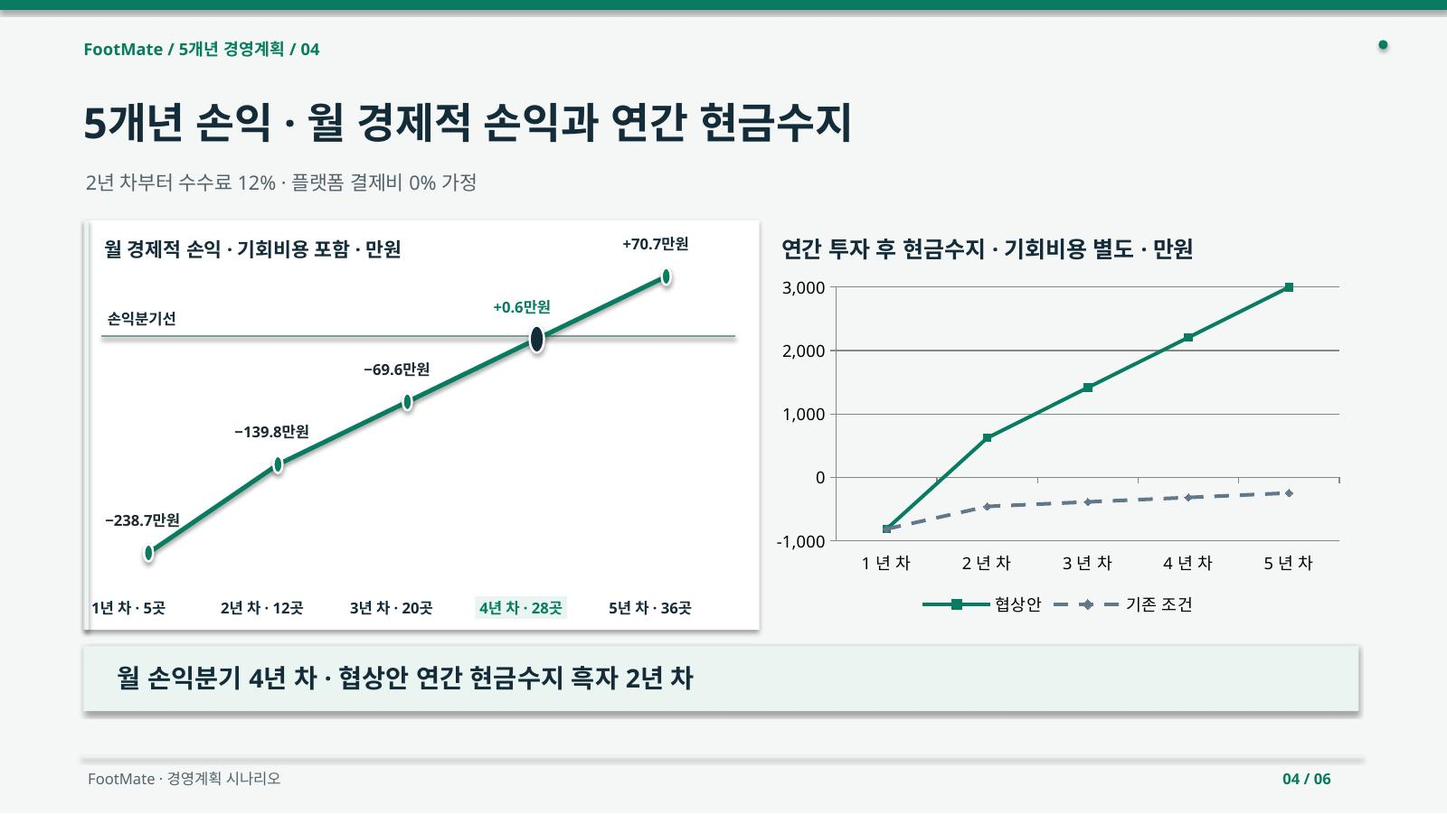
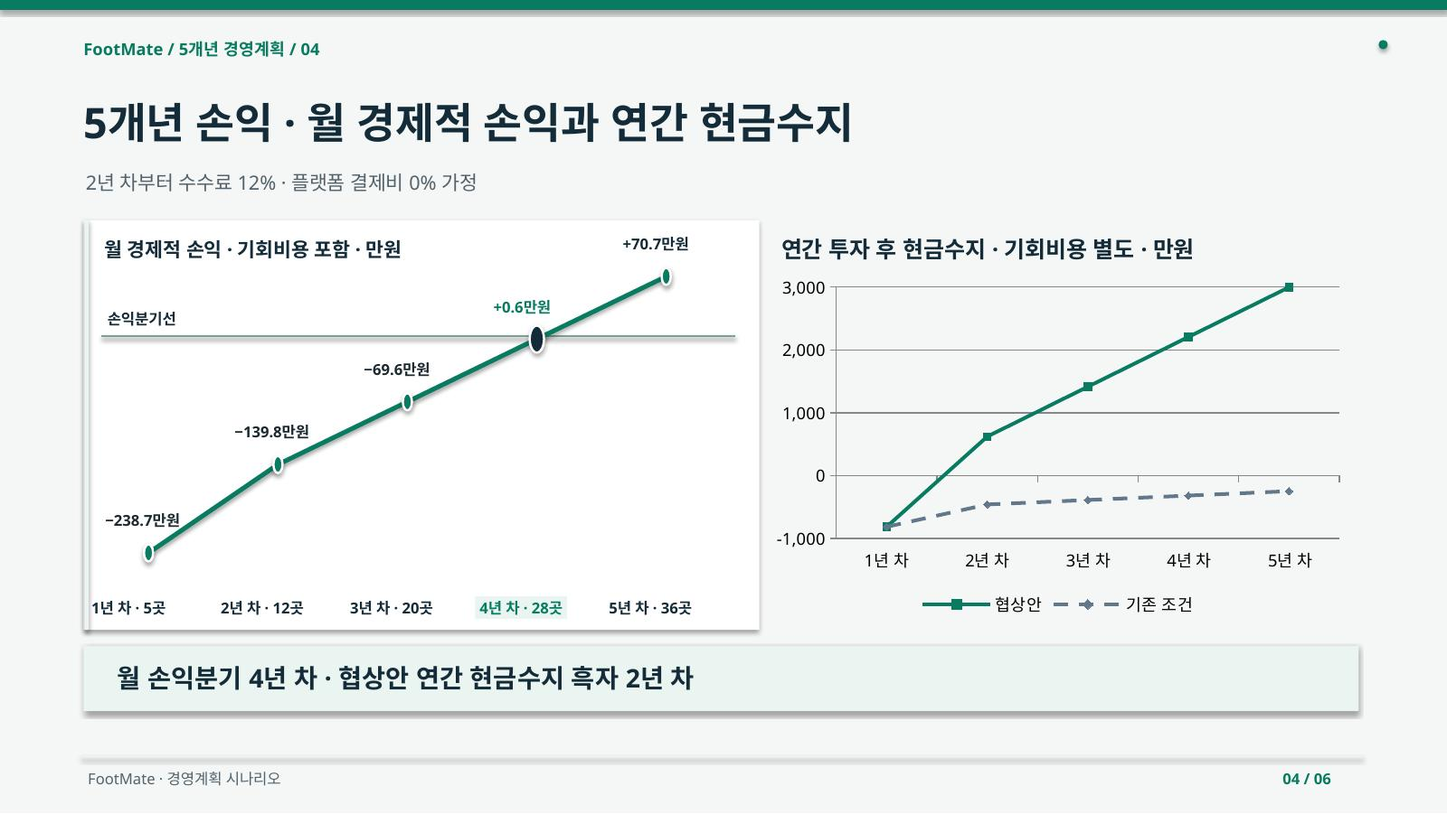
Fix Korean year labels in both presentation charts

Changed region(s): [[0.5312, 0.4661, 0.9062, 0.7148], [0.7188, 0.5905, 0.9062, 0.6215], [0.8125, 0.404, 0.8438, 0.4351]]

diff --git a/src/case-study/materials.html b/src/case-study/materials.html
@@ -263,7 +263,7 @@ html.standalone-slides .viewer:not(:fullscreen):not(.inline-zoom)>.toolbar,
 html.standalone-slides .viewer:not(:fullscreen):not(.inline-zoom)>.slide-tools,
 html
 html.standalone-slides .viewer:not(:fullscreen):not(.inline-zoom)>.slide-progress{flex:none}
-</style><style>.viewer .slide-keypoint{font-size:clamp(.82rem,1.3vw,.95rem);line-height:1.45;word-break:keep-all;overflow-wrap:anywhere}.viewer:fullscreen .slide-keypoint{flex:none}</style></head><body><main><a class="back" href="/" target="_top">본문으로</a><h1>FootMate 사업성 분석·경영계획 자료</h1><div class="flow"><article><strong>운영 구조</strong><p>정원·참가·취소·정산의 책임과 상태를 정의합니다.</p></article><article><strong>수익성 개선</strong><p>수수료·결제비 협상과 공급 확대의 조건을 비교합니다.</p></article><article><strong>IT 투자</strong><p>핵심 거래 통제와 비용·성과 관리에 투자 우선순위를 둡니다.</p></article></div><h2>분석 보고서</h2><p class="caption"><a href="/src/case-study/downloads/footmate_5year_strategy.pptx?v=20261113-reader" download="footmate_5year_strategy.pptx">5개년 중장기 전략 PPTX 6장 받기</a></p><div class="viewer"><div class="toolbar" role="group" aria-label="슬라이드 조작"><div class="slide-nav-controls"><button id="prev" type="button" aria-label="이전 슬라이드"><span class="fm-icon" aria-hidden="true">⬅</span><span>이전</span></button><span id="page" aria-live="polite" aria-atomic="true">01 / 09</span><button id="next" type="button" aria-label="다음 슬라이드"><span>다음</span><span class="fm-icon" aria-hidden="true">➡</span></button></div><div class="slide-current-info"><strong id="slideTitle">플랫폼 운영과 수익성 개선</strong><span id="slideSummary">운영 구조와 수익성 개선 판단을 살펴봅니다.</span></div><div class="slide-tools"><button id="expand" type="button" aria-label="슬라이드 크게 보기"><span id="expandIcon" class="fm-icon" aria-hidden="true">🖥</span><span id="expandLabel">전체 화면</span></button></div></div><div class="slide-progress" id="slideProgressTrack" role="progressbar" aria-label="슬라이드 진행" aria-valuemin="1" aria-valuemax="10" aria-valuenow="1"><span id="slideProgress"></span></div><div class="slide-tools"><label for="slide-picker">슬라이드 목록 <select id="slide-picker"></select></label></div><div class="viewer-stage"><button type="button" id="slide-enlarge" aria-label="슬라이드 이미지 확대"><img id="slide" alt="" aria-describedby="slideSummary slide-keypoint"></button></div><div class="slide-gallery" id="slideGallery" aria-label="발표자료 슬라이드 썸네일 미리보기"></div></div><h2>손익·사업성 분석</h2><section class="analysis" aria-label="손익과 사업성 분석"><h3>운영 손익과 성과관리</h3><p class="caption">2027년 손익 시나리오(산정 기준)</p><div class="controls"><label>대상 서비스<select id="project"><option>FootMate</option></select></label><label>수수료율 %<input id="rate" type="number" min="0" max="100" step="1"></label><label>플랫폼 예약 비중 %<input id="share" type="number" min="0" max="100"></label><label>취소율 %<input id="cancel" type="number" min="0" max="100"></label><label>신규 고객 1인당 확보비(CAC) 원<input id="cac" type="number" min="0" step="100"></label><label>플랫폼 결제비 %<input id="pg" type="number" min="0" max="100"></label><button id="reset">기준 시나리오 복원</button></div><div id="kpis" class="kpis" aria-live="polite"></div><p id="formula"></p><h2>월별 계획과 가상 실적</h2><p class="muted">월별 표는 고정 계획과 가상 거래를 비교합니다. 계산기 입력값과는 연동되지 않습니다.</p><svg id="chart" viewBox="0 0 1000 220" role="img" aria-label="월별 수수료 매출, 계획과 가상 실적 비교"></svg><div id="monthly"></div><h2>차이 원인과 대응</h2><div id="variance"></div><h2>데이터·계산 검증</h2><p>2027년 가상 예약·월별 집계입니다. 환불을 반영해 수수료 매출을 산정하고, 취소·노쇼의 지원·확보·IT 비용을 고려합니다. 거래 원장은 실제 자료 확보 후 대조합니다.</p><h3>스트레스 시나리오 계산 결과</h3><p>완료 예약 기준 손익입니다. 취소·노쇼의 추가 비용은 월별 원장 대조로 확인합니다.</p><div class="table-wrap" tabindex="0" role="region" aria-label="분석 표 가로 스크롤"><table><thead><tr><th>사례</th><th>조건</th><th>완료/월</th><th>공헌이익/건</th><th>기회비용 포함 손익/월</th><th>손익분기 건수</th></tr></thead><tbody><tr><td>FootMate</td><td>기준</td><td>626</td><td>340</td><td>-2,387,160</td><td>7,648</td></tr><tr><td>FootMate</td><td>경유 비중 20% 감소</td><td>501</td><td>340</td><td>-2,429,660</td><td>7,648</td></tr><tr><td>FootMate</td><td>고객 확보비 2배</td><td>626</td><td>40</td><td>-2,574,960</td><td>65,000</td></tr><tr><td>FootMate</td><td>취소율 20%</td><td>544</td><td>340</td><td>-2,415,040</td><td>7,648</td></tr><tr><td>FootMate</td><td>수수료 0%</td><td>626</td><td>-860</td><td>-3,138,360</td><td>손익분기 미성립</td></tr></tbody></table></div><p>수수료 0%는 건당 공헌이익이 음수로 손익분기에 도달하지 않습니다. 수요 수치는 검증용 가상 데이터입니다.</p><h2>전략과제·3개년 자원 배분</h2><div class="table-wrap" tabindex="0" role="region" aria-label="분석 표 가로 스크롤"><table><thead><tr><th>시기</th><th>우선 과제</th><th>자원 배분·예산</th><th>진입·중단 기준</th></tr></thead><tbody><tr><td>1년차</td><td>권한·정원·거래·대조 통제</td><td>초기 투자 300만원. 월 고정비·기회비용 별도</td><td>건당 공헌이익이 양수일 때 고객 유입비 확대 검토</td></tr><tr><td>2년차</td><td>지역·공급 확대 및 비용 개선</td><td>반복 사용량과 계약 단가로 예산 재산정</td><td>양의 공헌이익·현금 여력·서비스 품질 확인 후 확대</td></tr><tr><td>3년차</td><td>결제 자동화·제휴 확장</td><td>증분 편익과 36개월 고정자원비를 심사</td><td>부가 기능은 기존 과업 대비 비용·효과 확인</td></tr></tbody></table></div><p>초기 구축비와 36개월 고정 운영비는 현금 2,460만원, 기회비용 포함 9,660만원입니다. 거래 변동비·추가 투자·세금·물가·할인율은 별도입니다.</p></section><h2>핵심 지표 요약</h2><div class="scroll"><table><thead><tr><th scope="col">관리 항목</th><th scope="col">산정 기준·결과</th></tr></thead><tbody><tr><th scope="row">월 공급 정원</th><td>1,558.8석</td></tr><tr><th scope="row">플랫폼 경유 완료 예약</th><td>626건</td></tr><tr><th scope="row">건당 공헌이익</th><td>340원</td></tr><tr><th scope="row">기회비용 포함 월 손익</th><td>−2,387,160원</td></tr><tr><th scope="row">복합 협상안 공헌이익</th><td>940원/건</td></tr><tr><th scope="row">관리 체계</th><td>월간 계획·가상 실적·차이 분석</td></tr></tbody></table></div><h2>의사결정 메모</h2><div class="memo"><h3>수수료·결제비 협상 후 공급 확대 검토</h3><p>2027년 손익 계산 모델(산정 기준) · 2026-10-30</p><h2>결정할 사항</h2><p>초기 운영은 운영자 제휴형으로 추진합니다. 수수료 12%·결제비 운영자 부담을 함께 협상합니다.</p><h2>근거</h2><p>기준: 월 626건·건당 340원·월 손익 −2,387,160원(기회비용 포함). 복합안: 건당 940원·손익분기 2,766건. 공급처는 관리비 제외 약 23곳, 초과분에 곳당 월 3만원 반영 시 약 28곳.</p><h2>대안과 선택 이유</h2><p>수수료 인상은 공급 이탈, 결제비 이전은 운영자 수용성이 변수입니다. 복합안은 공급 유지 확인 후 확정합니다.</p><h2>자원 배분과 중단 기준</h2><p>초기 투자 300만원·월 고정비 60만원. 기회비용 월 200만원(현금 지출 제외). 건당 공헌이익 0 이하이면 광고 보류. 확대 전 취소·지원비 포함 손익 재심사.</p><h2>담당 역할·완료 기준</h2><p>사업개발: 계약·결제비 / 운영: 일정·정원·취소 / 경영기획: 물량·단가·비용 / IT: 권한·정원·거래 검수. 확대 전 계약·손익·통제 확인.</p></div></main><script>const DATA={"notice": "2027년 손익 계산 모델(산정 기준)", "configs": {"FootMate": {"price": 12000, "rate": 0.1, "pg": 0.03, "cs": 150, "it": 50, "newshare": 0.5, "cac": 600, "fixed": 600000, "labor": 2000000, "partners": 5, "slots": 4, "capacity": 18, "fill": 0.75, "share": 0.6, "cancel": 0.08, "complete": 0.97, "initial": 3000000}}, "results": {"FootMate": {"seats": 1558.8, "orders": 626, "gmv": 7512000, "revenue": 751200, "unit": 340, "profit": -387160, "economic": -2387160, "bep": 7648}}, "monthly": [{"project": "FootMate", "month": "2027-01", "plan_orders": 626, "sim_orders": 537, "plan_revenue": 751200, "sim_revenue": 644300, "plan_profit": -387160, "sim_profit": -510490, "partners": 5, "fill": 0.75, "share": 0.6, "forecast_orders": 537, "source": "synthetic"}, {"project": "FootMate", "month": "2027-02", "plan_orders": 650, "sim_orders": 573, "plan_revenue": 780000, "sim_revenue": 685800, "plan_profit": -379000, "sim_profit": -505240, "partners": 5, "fill": 0.76, "share": 0.615, "forecast_orders": 573, "source": "synthetic"}, {"project": "FootMate", "month": "2027-03", "plan_orders": 675, "sim_orders": 611, "plan_revenue": 810000, "sim_revenue": 731300, "plan_profit": -370500, "sim_profit": -503390, "partners": 5, "fill": 0.77, "share": 0.63, "forecast_orders": 611, "source": "synthetic"}, {"project": "FootMate", "month": "2027-04", "plan_orders": 980, "sim_orders": 904, "plan_revenue": 1176000, "sim_revenue": 1088800, "plan_profit": -266800, "sim_profit": -459140, "partners": 7, "fill": 0.78, "share": 0.645, "forecast_orders": 904, "source": "synthetic"}, {"project": "FootMate", "month": "2027-05", "plan_orders": 1015, "sim_orders": 976, "plan_revenue": 1218000, "sim_revenue": 1172000, "plan_profit": -254900, "sim_profit": -461600, "partners": 7, "fill": 0.79, "share": 0.6599999999999999, "forecast_orders": 976, "source": "synthetic"}, {"project": "FootMate", "month": "2027-06", "plan_orders": 1052, "sim_orders": 1019, "plan_revenue": 1262400, "sim_revenue": 1223200, "plan_profit": -242320, "sim_profit": -459360, "partners": 7, "fill": 0.8, "share": 0.6749999999999999, "forecast_orders": 1019, "source": "synthetic"}, {"project": "FootMate", "month": "2027-07", "plan_orders": 1399, "sim_orders": 1424, "plan_revenue": 1678800, "sim_revenue": 1712100, "plan_profit": -124340, "sim_profit": -355330, "partners": 9, "fill": 0.81, "share": 0.69, "forecast_orders": 1399, "source": "synthetic"}, {"project": "FootMate", "month": "2027-08", "plan_orders": 1448, "sim_orders": 1498, "plan_revenue": 1737600, "sim_revenue": 1797700, "plan_profit": -107680, "sim_profit": -359110, "partners": 9, "fill": 0.8200000000000001, "share": 0.705, "forecast_orders": 1448, "source": "synthetic"}, {"project": "FootMate", "month": "2027-09", "plan_orders": 1496, "sim_orders": 1564, "plan_revenue": 1795200, "sim_revenue": 1877900, "plan_profit": -91360, "sim_profit": -367870, "partners": 9, "fill": 0.83, "share": 0.72, "forecast_orders": 1496, "source": "synthetic"}, {"project": "FootMate", "month": "2027-10", "plan_orders": 1889, "sim_orders": 2056, "plan_revenue": 2266800, "sim_revenue": 2466000, "plan_profit": 42260, "sim_profit": -274700, "partners": 11, "fill": 0.84, "share": 0.735, "forecast_orders": 1889, "source": "synthetic"}, {"project": "FootMate", "month": "2027-11", "plan_orders": 1951, "sim_orders": 2143, "plan_revenue": 2341200, "sim_revenue": 2568200, "plan_profit": 63340, "sim_profit": -306460, "partners": 11, "fill": 0.85, "share": 0.75, "forecast_orders": 1951, "source": "synthetic"}, {"project": "FootMate", "month": "2027-12", "plan_orders": 2013, "sim_orders": 2261, "plan_revenue": 2415600, "sim_revenue": 2713800, "plan_profit": 84420, "sim_profit": -278040, "partners": 11, "fill": 0.86, "share": 0.7649999999999999, "forecast_orders": 2013, "source": "synthetic"}]};
+</style><style>.viewer .slide-keypoint{font-size:clamp(.82rem,1.3vw,.95rem);line-height:1.45;word-break:keep-all;overflow-wrap:anywhere}.viewer:fullscreen .slide-keypoint{flex:none}</style></head><body><main><a class="back" href="/" target="_top">본문으로</a><h1>FootMate 사업성 분석·경영계획 자료</h1><div class="flow"><article><strong>운영 구조</strong><p>정원·참가·취소·정산의 책임과 상태를 정의합니다.</p></article><article><strong>수익성 개선</strong><p>수수료·결제비 협상과 공급 확대의 조건을 비교합니다.</p></article><article><strong>IT 투자</strong><p>핵심 거래 통제와 비용·성과 관리에 투자 우선순위를 둡니다.</p></article></div><h2>분석 보고서</h2><p class="caption"><a href="/src/case-study/downloads/footmate_5year_strategy.pptx?v=20261113-axis" download="footmate_5year_strategy.pptx">5개년 중장기 전략 PPTX 6장 받기</a></p><div class="viewer"><div class="toolbar" role="group" aria-label="슬라이드 조작"><div class="slide-nav-controls"><button id="prev" type="button" aria-label="이전 슬라이드"><span class="fm-icon" aria-hidden="true">⬅</span><span>이전</span></button><span id="page" aria-live="polite" aria-atomic="true">01 / 09</span><button id="next" type="button" aria-label="다음 슬라이드"><span>다음</span><span class="fm-icon" aria-hidden="true">➡</span></button></div><div class="slide-current-info"><strong id="slideTitle">플랫폼 운영과 수익성 개선</strong><span id="slideSummary">운영 구조와 수익성 개선 판단을 살펴봅니다.</span></div><div class="slide-tools"><button id="expand" type="button" aria-label="슬라이드 크게 보기"><span id="expandIcon" class="fm-icon" aria-hidden="true">🖥</span><span id="expandLabel">전체 화면</span></button></div></div><div class="slide-progress" id="slideProgressTrack" role="progressbar" aria-label="슬라이드 진행" aria-valuemin="1" aria-valuemax="10" aria-valuenow="1"><span id="slideProgress"></span></div><div class="slide-tools"><label for="slide-picker">슬라이드 목록 <select id="slide-picker"></select></label></div><div class="viewer-stage"><button type="button" id="slide-enlarge" aria-label="슬라이드 이미지 확대"><img id="slide" alt="" aria-describedby="slideSummary slide-keypoint"></button></div><div class="slide-gallery" id="slideGallery" aria-label="발표자료 슬라이드 썸네일 미리보기"></div></div><h2>손익·사업성 분석</h2><section class="analysis" aria-label="손익과 사업성 분석"><h3>운영 손익과 성과관리</h3><p class="caption">2027년 손익 시나리오(산정 기준)</p><div class="controls"><label>대상 서비스<select id="project"><option>FootMate</option></select></label><label>수수료율 %<input id="rate" type="number" min="0" max="100" step="1"></label><label>플랫폼 예약 비중 %<input id="share" type="number" min="0" max="100"></label><label>취소율 %<input id="cancel" type="number" min="0" max="100"></label><label>신규 고객 1인당 확보비(CAC) 원<input id="cac" type="number" min="0" step="100"></label><label>플랫폼 결제비 %<input id="pg" type="number" min="0" max="100"></label><button id="reset">기준 시나리오 복원</button></div><div id="kpis" class="kpis" aria-live="polite"></div><p id="formula"></p><h2>월별 계획과 가상 실적</h2><p class="muted">월별 표는 고정 계획과 가상 거래를 비교합니다. 계산기 입력값과는 연동되지 않습니다.</p><svg id="chart" viewBox="0 0 1000 220" role="img" aria-label="월별 수수료 매출, 계획과 가상 실적 비교"></svg><div id="monthly"></div><h2>차이 원인과 대응</h2><div id="variance"></div><h2>데이터·계산 검증</h2><p>2027년 가상 예약·월별 집계입니다. 환불을 반영해 수수료 매출을 산정하고, 취소·노쇼의 지원·확보·IT 비용을 고려합니다. 거래 원장은 실제 자료 확보 후 대조합니다.</p><h3>스트레스 시나리오 계산 결과</h3><p>완료 예약 기준 손익입니다. 취소·노쇼의 추가 비용은 월별 원장 대조로 확인합니다.</p><div class="table-wrap" tabindex="0" role="region" aria-label="분석 표 가로 스크롤"><table><thead><tr><th>사례</th><th>조건</th><th>완료/월</th><th>공헌이익/건</th><th>기회비용 포함 손익/월</th><th>손익분기 건수</th></tr></thead><tbody><tr><td>FootMate</td><td>기준</td><td>626</td><td>340</td><td>-2,387,160</td><td>7,648</td></tr><tr><td>FootMate</td><td>경유 비중 20% 감소</td><td>501</td><td>340</td><td>-2,429,660</td><td>7,648</td></tr><tr><td>FootMate</td><td>고객 확보비 2배</td><td>626</td><td>40</td><td>-2,574,960</td><td>65,000</td></tr><tr><td>FootMate</td><td>취소율 20%</td><td>544</td><td>340</td><td>-2,415,040</td><td>7,648</td></tr><tr><td>FootMate</td><td>수수료 0%</td><td>626</td><td>-860</td><td>-3,138,360</td><td>손익분기 미성립</td></tr></tbody></table></div><p>수수료 0%는 건당 공헌이익이 음수로 손익분기에 도달하지 않습니다. 수요 수치는 검증용 가상 데이터입니다.</p><h2>전략과제·3개년 자원 배분</h2><div class="table-wrap" tabindex="0" role="region" aria-label="분석 표 가로 스크롤"><table><thead><tr><th>시기</th><th>우선 과제</th><th>자원 배분·예산</th><th>진입·중단 기준</th></tr></thead><tbody><tr><td>1년차</td><td>권한·정원·거래·대조 통제</td><td>초기 투자 300만원. 월 고정비·기회비용 별도</td><td>건당 공헌이익이 양수일 때 고객 유입비 확대 검토</td></tr><tr><td>2년차</td><td>지역·공급 확대 및 비용 개선</td><td>반복 사용량과 계약 단가로 예산 재산정</td><td>양의 공헌이익·현금 여력·서비스 품질 확인 후 확대</td></tr><tr><td>3년차</td><td>결제 자동화·제휴 확장</td><td>증분 편익과 36개월 고정자원비를 심사</td><td>부가 기능은 기존 과업 대비 비용·효과 확인</td></tr></tbody></table></div><p>초기 구축비와 36개월 고정 운영비는 현금 2,460만원, 기회비용 포함 9,660만원입니다. 거래 변동비·추가 투자·세금·물가·할인율은 별도입니다.</p></section><h2>핵심 지표 요약</h2><div class="scroll"><table><thead><tr><th scope="col">관리 항목</th><th scope="col">산정 기준·결과</th></tr></thead><tbody><tr><th scope="row">월 공급 정원</th><td>1,558.8석</td></tr><tr><th scope="row">플랫폼 경유 완료 예약</th><td>626건</td></tr><tr><th scope="row">건당 공헌이익</th><td>340원</td></tr><tr><th scope="row">기회비용 포함 월 손익</th><td>−2,387,160원</td></tr><tr><th scope="row">복합 협상안 공헌이익</th><td>940원/건</td></tr><tr><th scope="row">관리 체계</th><td>월간 계획·가상 실적·차이 분석</td></tr></tbody></table></div><h2>의사결정 메모</h2><div class="memo"><h3>수수료·결제비 협상 후 공급 확대 검토</h3><p>2027년 손익 계산 모델(산정 기준) · 2026-10-30</p><h2>결정할 사항</h2><p>초기 운영은 운영자 제휴형으로 추진합니다. 수수료 12%·결제비 운영자 부담을 함께 협상합니다.</p><h2>근거</h2><p>기준: 월 626건·건당 340원·월 손익 −2,387,160원(기회비용 포함). 복합안: 건당 940원·손익분기 2,766건. 공급처는 관리비 제외 약 23곳, 초과분에 곳당 월 3만원 반영 시 약 28곳.</p><h2>대안과 선택 이유</h2><p>수수료 인상은 공급 이탈, 결제비 이전은 운영자 수용성이 변수입니다. 복합안은 공급 유지 확인 후 확정합니다.</p><h2>자원 배분과 중단 기준</h2><p>초기 투자 300만원·월 고정비 60만원. 기회비용 월 200만원(현금 지출 제외). 건당 공헌이익 0 이하이면 광고 보류. 확대 전 취소·지원비 포함 손익 재심사.</p><h2>담당 역할·완료 기준</h2><p>사업개발: 계약·결제비 / 운영: 일정·정원·취소 / 경영기획: 물량·단가·비용 / IT: 권한·정원·거래 검수. 확대 전 계약·손익·통제 확인.</p></div></main><script>const DATA={"notice": "2027년 손익 계산 모델(산정 기준)", "configs": {"FootMate": {"price": 12000, "rate": 0.1, "pg": 0.03, "cs": 150, "it": 50, "newshare": 0.5, "cac": 600, "fixed": 600000, "labor": 2000000, "partners": 5, "slots": 4, "capacity": 18, "fill": 0.75, "share": 0.6, "cancel": 0.08, "complete": 0.97, "initial": 3000000}}, "results": {"FootMate": {"seats": 1558.8, "orders": 626, "gmv": 7512000, "revenue": 751200, "unit": 340, "profit": -387160, "economic": -2387160, "bep": 7648}}, "monthly": [{"project": "FootMate", "month": "2027-01", "plan_orders": 626, "sim_orders": 537, "plan_revenue": 751200, "sim_revenue": 644300, "plan_profit": -387160, "sim_profit": -510490, "partners": 5, "fill": 0.75, "share": 0.6, "forecast_orders": 537, "source": "synthetic"}, {"project": "FootMate", "month": "2027-02", "plan_orders": 650, "sim_orders": 573, "plan_revenue": 780000, "sim_revenue": 685800, "plan_profit": -379000, "sim_profit": -505240, "partners": 5, "fill": 0.76, "share": 0.615, "forecast_orders": 573, "source": "synthetic"}, {"project": "FootMate", "month": "2027-03", "plan_orders": 675, "sim_orders": 611, "plan_revenue": 810000, "sim_revenue": 731300, "plan_profit": -370500, "sim_profit": -503390, "partners": 5, "fill": 0.77, "share": 0.63, "forecast_orders": 611, "source": "synthetic"}, {"project": "FootMate", "month": "2027-04", "plan_orders": 980, "sim_orders": 904, "plan_revenue": 1176000, "sim_revenue": 1088800, "plan_profit": -266800, "sim_profit": -459140, "partners": 7, "fill": 0.78, "share": 0.645, "forecast_orders": 904, "source": "synthetic"}, {"project": "FootMate", "month": "2027-05", "plan_orders": 1015, "sim_orders": 976, "plan_revenue": 1218000, "sim_revenue": 1172000, "plan_profit": -254900, "sim_profit": -461600, "partners": 7, "fill": 0.79, "share": 0.6599999999999999, "forecast_orders": 976, "source": "synthetic"}, {"project": "FootMate", "month": "2027-06", "plan_orders": 1052, "sim_orders": 1019, "plan_revenue": 1262400, "sim_revenue": 1223200, "plan_profit": -242320, "sim_profit": -459360, "partners": 7, "fill": 0.8, "share": 0.6749999999999999, "forecast_orders": 1019, "source": "synthetic"}, {"project": "FootMate", "month": "2027-07", "plan_orders": 1399, "sim_orders": 1424, "plan_revenue": 1678800, "sim_revenue": 1712100, "plan_profit": -124340, "sim_profit": -355330, "partners": 9, "fill": 0.81, "share": 0.69, "forecast_orders": 1399, "source": "synthetic"}, {"project": "FootMate", "month": "2027-08", "plan_orders": 1448, "sim_orders": 1498, "plan_revenue": 1737600, "sim_revenue": 1797700, "plan_profit": -107680, "sim_profit": -359110, "partners": 9, "fill": 0.8200000000000001, "share": 0.705, "forecast_orders": 1448, "source": "synthetic"}, {"project": "FootMate", "month": "2027-09", "plan_orders": 1496, "sim_orders": 1564, "plan_revenue": 1795200, "sim_revenue": 1877900, "plan_profit": -91360, "sim_profit": -367870, "partners": 9, "fill": 0.83, "share": 0.72, "forecast_orders": 1496, "source": "synthetic"}, {"project": "FootMate", "month": "2027-10", "plan_orders": 1889, "sim_orders": 2056, "plan_revenue": 2266800, "sim_revenue": 2466000, "plan_profit": 42260, "sim_profit": -274700, "partners": 11, "fill": 0.84, "share": 0.735, "forecast_orders": 1889, "source": "synthetic"}, {"project": "FootMate", "month": "2027-11", "plan_orders": 1951, "sim_orders": 2143, "plan_revenue": 2341200, "sim_revenue": 2568200, "plan_profit": 63340, "sim_profit": -306460, "partners": 11, "fill": 0.85, "share": 0.75, "forecast_orders": 1951, "source": "synthetic"}, {"project": "FootMate", "month": "2027-12", "plan_orders": 2013, "sim_orders": 2261, "plan_revenue": 2415600, "sim_revenue": 2713800, "plan_profit": 84420, "sim_profit": -278040, "partners": 11, "fill": 0.86, "share": 0.7649999999999999, "forecast_orders": 2013, "source": "synthetic"}]};
 const $=id=>document.getElementById(id),num=n=>Math.round(n).toLocaleString('ko-KR'),money=n=>num(n)+'원';
 function tab(h,rs){return '<div class="table-wrap" tabindex="0" role="region" aria-label="분석 표 가로 스크롤"><table><thead><tr>'+h.map(x=>'<th>'+x+'</th>').join('')+'</tr></thead><tbody>'+rs.map(r=>'<tr>'+r.map(x=>'<td>'+x+'</td>').join('')+'</tr>').join('')+'</tbody></table></div>'}
 function update(){let p=$('project').value,c={...DATA.configs[p]};for(let id of ['rate','share','cancel','cac','pg'])c[id]=Number($(id).value)/(id==='cac'?1:100);if(Object.values(c).some(x=>!Number.isFinite(x))||['rate','share','cancel','pg'].some(x=>c[x]<0||c[x]>1)||c.cac<0){$('kpis').textContent='입력 범위를 확인하세요.';return}let seats=c.partners*c.slots*4.33*c.capacity,q=Math.round(seats*c.fill*c.share*(1-c.cancel)*c.complete),u=c.price*c.rate-c.price*c.pg-c.cs-c.it-c.newshare*c.cac,e=q*u-c.fixed-c.labor;let bep=u>0?Math.ceil((c.fixed+c.labor)/u):null;$('kpis').innerHTML=[['완료 예약 / 월',num(q)+'건'],['수수료 매출',money(q*c.price*c.rate)],['공헌이익 / 건',money(u)],['기회비용 포함 월 손익',money(e)],['손익분기 예약',bep?num(bep)+'건':'손익분기 미성립']].map(x=>'<div>'+x[0]+'<strong>'+x[1]+'</strong></div>').join('');$('formula').textContent='공급: 5곳 × 주4회 × 18명 × 4.33주. 충원율·플랫폼 예약 비중·취소·완료율 적용.';
@@ -271,7 +271,7 @@ let ms=DATA.monthly.filter(x=>x.project===p);$('monthly').innerHTML=tab(['월','
 let x=ms[5],q0=x.plan_orders,q1=x.sim_orders,p0=q0?x.plan_revenue/q0:0,p1=q1?x.sim_revenue/q1:0,volume=(q1-q0)*p0,price=q1*(p1-p0),cost=(x.sim_profit-x.plan_profit)-(volume+price);$('variance').innerHTML=tab(['6월 원인','손익 영향','조치 제안'],[['완료 물량 차이',money(volume),'플랫폼 예약·취소·완료율을 구분해 점검'],['건당 수수료 수익 차이',money(price),'상품·가격·수수료 조건 확인'],['순비용 차이',money(cost),'취소 지원·고객 확보·IT 비용 점검'],['손익 차이 합계',money(x.sim_profit-x.plan_profit),'예산 검토에 반영']]);
 let max=Math.max(...ms.flatMap(x=>[x.plan_revenue,x.sim_revenue]),1),bars=ms.map((x,i)=>{let a=150*x.plan_revenue/max,b=150*x.sim_revenue/max;return `<rect x="${30+i*80}" y="${180-a}" width="23" height="${a}" fill="#173f33"/><rect x="${55+i*80}" y="${180-b}" width="23" height="${b}" fill="#8fb69a"/><text x="${30+i*80}" y="205" font-size="13">${i+1}월</text>`}).join('');$('chart').innerHTML='<text x="24" y="18" font-size="14">수수료 매출 비교 · 진한색 계획 / 연한색 가상 실적</text>'+bars;}
 function reset(){let c=DATA.configs[$('project').value];for(let id of ['rate','share','cancel','cac','pg'])$(id).value=c[id]*(id==='cac'?1:100);update()}for(let id of ['rate','share','cancel','cac','pg'])$(id).addEventListener('input',update);$('project').addEventListener('change',reset);$('reset').addEventListener('click',reset);reset();</script><script src="report-previews.js?v=20261111-priority-slides"></script><script>const strategyDeck=new URLSearchParams(location.search).get('deck')==='strategy';const slides=strategyDeck?[{"title":"중장기 경영전략 및 수익성 개선","src":"/src/case-study/previews/strategy/slide-1.jpg"},{"title":"5개년 성장 전략과 핵심 지표","src":"/src/case-study/previews/strategy/slide-2.jpg"},{"title":"사업모델 협상에 따른 수익구조 개선","src":"/src/case-study/previews/strategy/slide-3.jpg"},{"title":"손익·비용 구조를 반영한 5개년 계획","src":"/src/case-study/previews/strategy/slide-4.jpg?v=20261111-priority-slides"},{"title":"경영성과 관리와 자원 배분 체계","src":"/src/case-study/previews/strategy/slide-5.jpg"},{"title":"성장 목표보다 수익성 있는 확대를 우선","src":"/src/case-study/previews/strategy/slide-6.jpg"}]:window.REPORT_SLIDES;const slideSummaries=strategyDeck?["5개년 경영전략의 전체 흐름","제휴 공급 확대와 핵심 성과지표","수수료·결제비 협상을 통한 건당 수익 개선","5개년 손익과 비용 구조","월간 계획·실적·예산·투자 우선순위","수익성을 확인한 뒤 단계적으로 확대"]:["운영 구조와 수익성 개선 판단","운영자·플랫폼·참가자의 역할과 책임","공급처와 예약 비중을 고려한 완료 예약 추정","수수료·결제비 부담에 따른 공헌이익 개선안","계획 대비 손익 차이 원인과 운영 대응","참가·취소·정원 데이터의 관리와 검증","구축 범위·월 운영비·IT 투자 우선순위","시나리오별 ROI·비용 회수율 비교","5개년 전망·핵심 지표·단계적 투자 기준"];const revisedSlides=slides.map((_,index)=>index+1);
-revisedSlides.forEach(number=>{slides[number-1].src='/src/case-study/previews/'+(strategyDeck?'strategy':'report')+'/decision-'+number+'.jpg?v='+((strategyDeck?[4,6]:[5,8,9]).includes(number)?'20261113-reader':(strategyDeck?[]:[1,4,7]).includes(number)?'20261113-money':'20261113-spacing');});
+revisedSlides.forEach(number=>{slides[number-1].src='/src/case-study/previews/'+(strategyDeck?'strategy':'report')+'/decision-'+number+'.jpg?v='+((strategyDeck?number===4:number===9)?'20261113-axis':(strategyDeck?[4,6]:[5,8,9]).includes(number)?'20261113-reader':(strategyDeck?[]:[1,4,7]).includes(number)?'20261113-money':'20261113-spacing');});
 const keypoints=strategyDeck?[
  '공급처 5곳에서 36곳까지 확대하는 경영계획 시나리오.',
  '5·12·20·28·36곳. 계약 조건, 운영 안정성, 지역 손익을 확인한 뒤 확대.',

diff --git a/src/case-study/nine-sections.js b/src/case-study/nine-sections.js
@@ -8,7 +8,7 @@ const sections = [
     "name": "추진 배경·검토 결론",
     "title": "풋살 매칭 플랫폼의 사업성 검토 및 중장기 경영계획",
     "lead": "",
-    "body": "<div class=\"case-verdict\"><h2>운영자 제휴로 시작하고,<br>수익성 확인 후 투자한다.</h2></div><dl class=\"case-kpis\" aria-label=\"기준 시나리오 주요 수치\"><div class=\"case-kpi\"><dt>월 완료 예약</dt><dd>626<small>건</small></dd></div><div class=\"case-kpi\"><dt>예약당 공헌이익</dt><dd>340<small>원</small></dd></div><div class=\"case-kpi\"><dt>예상 월 현금 손익</dt><dd class=\"is-negative\">약 −38.7<small>만원</small></dd></div></dl><p class=\"case-scenario-note\">가정 기반 월간 시나리오 · 제휴 5곳 · 수수료 10% · 결제비 3%</p><div class=\"case-next-decision\"><strong>8주 현장 검증</strong><span>기본 현금 예산 461만원</span></div><section id=\"attachments\" class=\"case-documents\" aria-labelledby=\"case-documents-heading\"><div class=\"case-documents-head\"><div class=\"case-documents-intro\"><h2 id=\"case-documents-heading\">발표자료</h2></div></div><div class=\"case-deck-stack\"><div class=\"case-deck-card\"><details class=\"case-doc-preview case-report-preview\"><summary><span class=\"case-preview-summary-main\"><span class=\"case-preview-symbol\" aria-hidden=\"true\">01</span><span class=\"case-preview-summary-text\"><strong>사업성 분석·경영계획</strong><span class=\"case-preview-description\">사업성 검토 · 손익분기 · 투자 판단</span></span></span><span class=\"case-preview-summary-side\"><span class=\"case-preview-count\">9장</span><span class=\"case-preview-action\">살펴보기</span><span class=\"case-preview-indicator\" aria-hidden=\"true\"></span></span></summary><div class=\"case-doc-preview-body\"><iframe class=\"case-ppt-frame\" title=\"사업성 분석·경영계획 슬라이드 9장\" allowfullscreen data-src=\"/src/case-study/materials.html?preview=1&viewer=20261112-qa\" loading=\"lazy\"></iframe></div></details><div class=\"case-downloads\" aria-label=\"사업성 분석·경영계획 발표자료\"><a href=\"/src/case-study/materials.html?preview=1&mode=slides&v=20261112-qa\" target=\"_blank\" rel=\"noopener\" aria-label=\"사업성 분석·경영계획 발표 보기\">발표 보기</a><a href=\"/src/case-study/downloads/footmate_report.pptx?v=20261113-reader\" download=\"footmate_report.pptx?v=20261113-reader\">기획 자료 받기</a></div></div><div class=\"case-deck-card\"><details class=\"case-doc-preview case-strategy-preview\"><summary><span class=\"case-preview-summary-main\"><span class=\"case-preview-symbol\" aria-hidden=\"true\">02</span><span class=\"case-preview-summary-text\"><strong>중장기 성장 전략</strong><span class=\"case-preview-description\">공급 확대 · 5개년 손익 · 성과관리</span></span></span><span class=\"case-preview-summary-side\"><span class=\"case-preview-count\">6장</span><span class=\"case-preview-action\">살펴보기</span><span class=\"case-preview-indicator\" aria-hidden=\"true\"></span></span></summary><div class=\"case-doc-preview-body\"><iframe class=\"case-ppt-frame\" title=\"중장기 성장 전략 슬라이드 6장\" allowfullscreen data-src=\"/src/case-study/materials.html?preview=1&deck=strategy&viewer=20261112-qa\" loading=\"lazy\"></iframe></div></details><div class=\"case-downloads\" aria-label=\"중장기 성장 전략 발표자료\"><a href=\"/src/case-study/materials.html?preview=1&mode=slides&deck=strategy&v=20261112-qa\" target=\"_blank\" rel=\"noopener\" aria-label=\"중장기 성장 전략 발표 보기\">발표 보기</a><a href=\"/src/case-study/downloads/footmate_5year_strategy.pptx?v=20261113-reader\" download=\"footmate_5year_strategy.pptx?v=20261113-reader\">전략 자료 받기</a></div></div></div></section>"
+    "body": "<div class=\"case-verdict\"><h2>운영자 제휴로 시작하고,<br>수익성 확인 후 투자한다.</h2></div><dl class=\"case-kpis\" aria-label=\"기준 시나리오 주요 수치\"><div class=\"case-kpi\"><dt>월 완료 예약</dt><dd>626<small>건</small></dd></div><div class=\"case-kpi\"><dt>예약당 공헌이익</dt><dd>340<small>원</small></dd></div><div class=\"case-kpi\"><dt>예상 월 현금 손익</dt><dd class=\"is-negative\">약 −38.7<small>만원</small></dd></div></dl><p class=\"case-scenario-note\">가정 기반 월간 시나리오 · 제휴 5곳 · 수수료 10% · 결제비 3%</p><div class=\"case-next-decision\"><strong>8주 현장 검증</strong><span>기본 현금 예산 461만원</span></div><section id=\"attachments\" class=\"case-documents\" aria-labelledby=\"case-documents-heading\"><div class=\"case-documents-head\"><div class=\"case-documents-intro\"><h2 id=\"case-documents-heading\">발표자료</h2></div></div><div class=\"case-deck-stack\"><div class=\"case-deck-card\"><details class=\"case-doc-preview case-report-preview\"><summary><span class=\"case-preview-summary-main\"><span class=\"case-preview-symbol\" aria-hidden=\"true\">01</span><span class=\"case-preview-summary-text\"><strong>사업성 분석·경영계획</strong><span class=\"case-preview-description\">사업성 검토 · 손익분기 · 투자 판단</span></span></span><span class=\"case-preview-summary-side\"><span class=\"case-preview-count\">9장</span><span class=\"case-preview-action\">살펴보기</span><span class=\"case-preview-indicator\" aria-hidden=\"true\"></span></span></summary><div class=\"case-doc-preview-body\"><iframe class=\"case-ppt-frame\" title=\"사업성 분석·경영계획 슬라이드 9장\" allowfullscreen data-src=\"/src/case-study/materials.html?preview=1&viewer=20261112-qa\" loading=\"lazy\"></iframe></div></details><div class=\"case-downloads\" aria-label=\"사업성 분석·경영계획 발표자료\"><a href=\"/src/case-study/materials.html?preview=1&mode=slides&v=20261112-qa\" target=\"_blank\" rel=\"noopener\" aria-label=\"사업성 분석·경영계획 발표 보기\">발표 보기</a><a href=\"/src/case-study/downloads/footmate_report.pptx?v=20261113-axis\" download=\"footmate_report.pptx?v=20261113-axis\">기획 자료 받기</a></div></div><div class=\"case-deck-card\"><details class=\"case-doc-preview case-strategy-preview\"><summary><span class=\"case-preview-summary-main\"><span class=\"case-preview-symbol\" aria-hidden=\"true\">02</span><span class=\"case-preview-summary-text\"><strong>중장기 성장 전략</strong><span class=\"case-preview-description\">공급 확대 · 5개년 손익 · 성과관리</span></span></span><span class=\"case-preview-summary-side\"><span class=\"case-preview-count\">6장</span><span class=\"case-preview-action\">살펴보기</span><span class=\"case-preview-indicator\" aria-hidden=\"true\"></span></span></summary><div class=\"case-doc-preview-body\"><iframe class=\"case-ppt-frame\" title=\"중장기 성장 전략 슬라이드 6장\" allowfullscreen data-src=\"/src/case-study/materials.html?preview=1&deck=strategy&viewer=20261112-qa\" loading=\"lazy\"></iframe></div></details><div class=\"case-downloads\" aria-label=\"중장기 성장 전략 발표자료\"><a href=\"/src/case-study/materials.html?preview=1&mode=slides&deck=strategy&v=20261112-qa\" target=\"_blank\" rel=\"noopener\" aria-label=\"중장기 성장 전략 발표 보기\">발표 보기</a><a href=\"/src/case-study/downloads/footmate_5year_strategy.pptx?v=20261113-axis\" download=\"footmate_5year_strategy.pptx?v=20261113-axis\">전략 자료 받기</a></div></div></div></section>"
   },
   {
     "name": "시장·경쟁 분석",

diff --git a/index.html b/index.html
@@ -17,7 +17,7 @@
 <a class="skip-link" href="#main">본문으로 이동</a>
 <div class="fm-cs-shell"><aside class="sidebar" aria-label="본문 목차"><div class="sb-brand"><div class="sb-logo">FootMate</div><div class="sb-sub">신사업 사업성 분석·경영계획</div></div><nav class="toc" aria-label="신사업 사업성 분석·경영계획 9개 섹션"></nav></aside>
 <main class="viewer" id="main"><div class="track"><section class="slide"></section><section class="slide"></section><section class="slide"></section><section class="slide"></section><section class="slide"></section><section class="slide"></section><section class="slide"></section><section class="slide"></section><section class="slide"></section></div><noscript><p>이 페이지는 JavaScript가 필요합니다. <a href="/src/case-study/materials.html">분석 자료·원본 다운로드</a>에서 자료를 확인할 수 있습니다.</p></noscript></main></div>
-<script src="/src/case-study/nine-sections.js?v=20261113-reader"></script>
+<script src="/src/case-study/nine-sections.js?v=20261113-axis"></script>
 </body></html>
 
 
